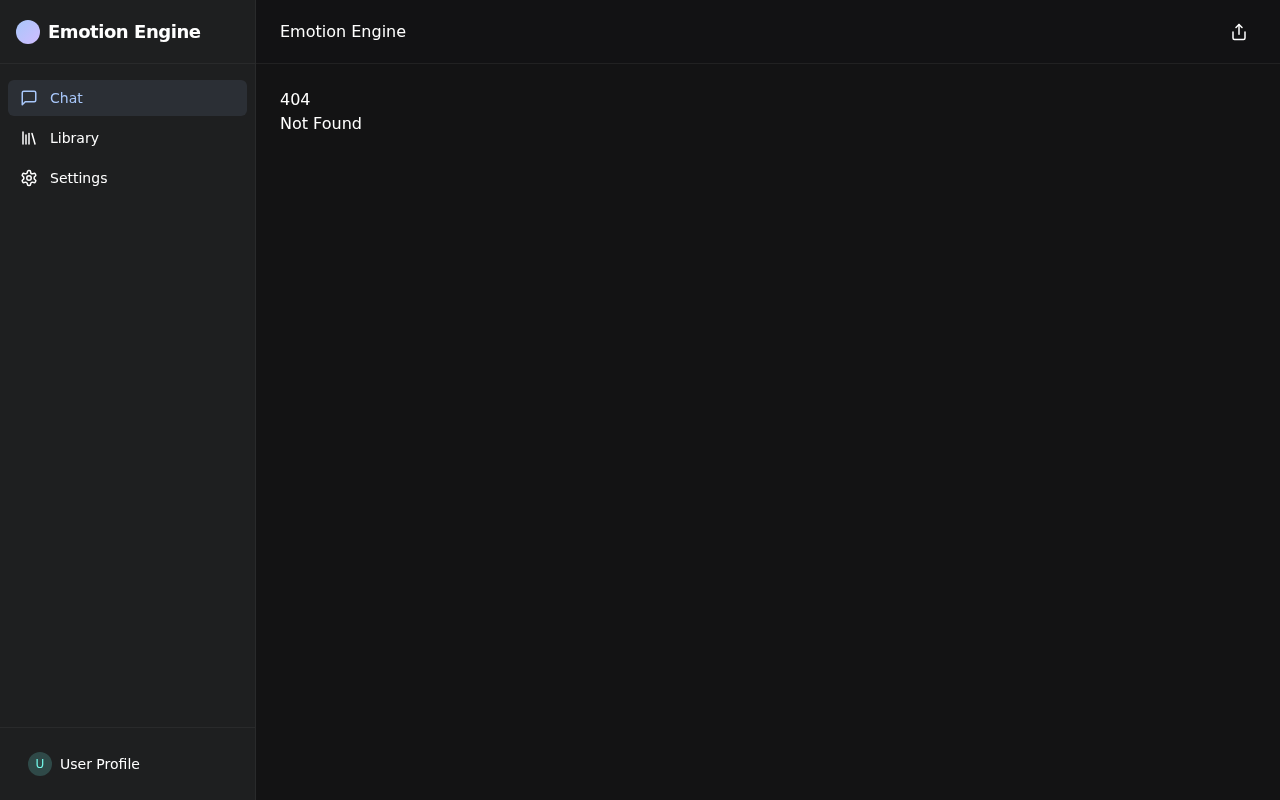
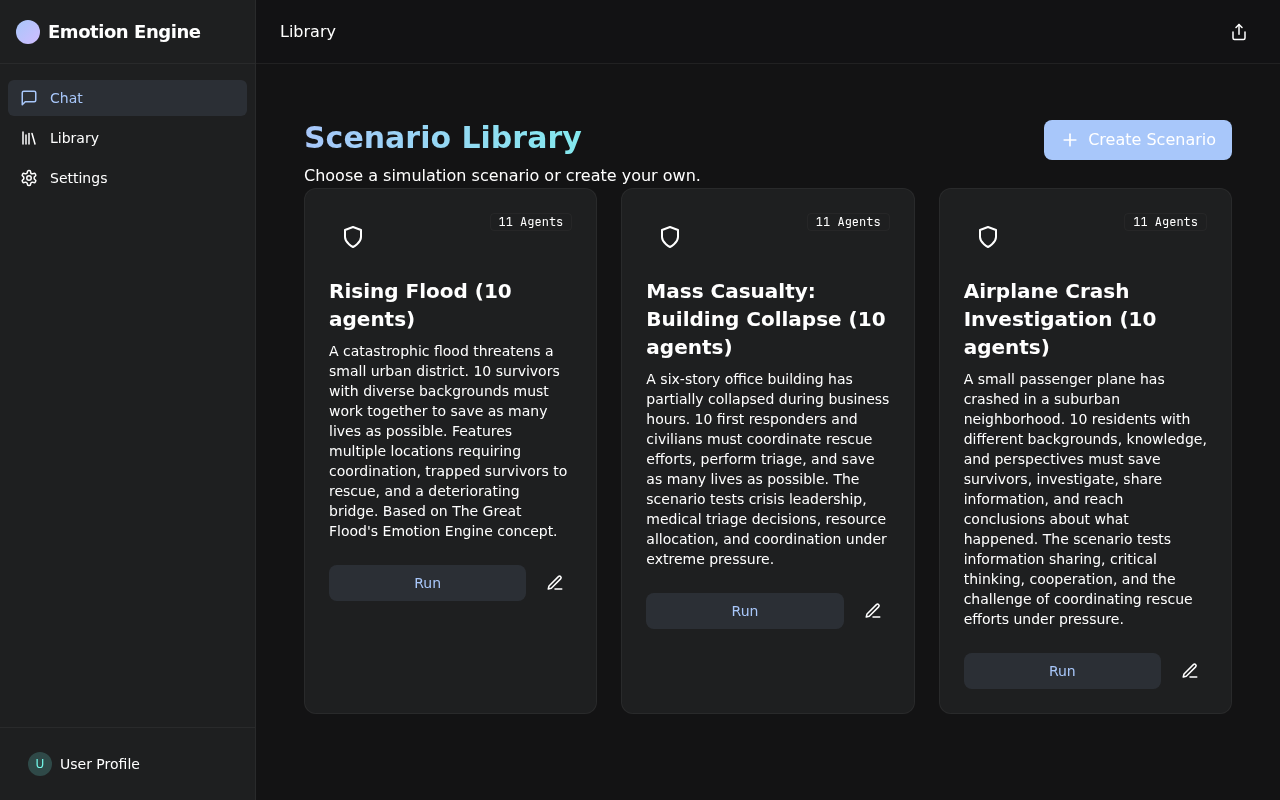
feat: Add SvelteKit page for scenario library and update its corresponding screenshot.

diff --git a/frontend/src/routes/scenarios/+page.svelte b/frontend/src/routes/scenarios/+page.svelte
@@ -1,0 +1,117 @@
+<script lang="ts">
+  import { onMount } from 'svelte';
+  import { scenarios, type Scenario } from '$lib/api';
+  import { setHeader, resetHeader } from '$lib/stores/header';
+  import { goto } from '$app/navigation';
+
+  let scenariosList: Scenario[] = [];
+  let isLoading = true;
+  let error: string | null = null;
+
+  onMount(async () => {
+    setHeader({ title: 'Library' }); // or Scenarios
+    try {
+      scenariosList = await scenarios.list();
+    } catch (e) {
+      error = e instanceof Error ? e.message : 'Failed to load scenarios';
+    } finally {
+      isLoading = false;
+    }
+    return resetHeader;
+  });
+
+  function startRun(scenarioId: string) {
+      // Just navigate to the run creation or direct run page?
+      // Since we don't have a direct "start run" flow fully mapped in my head, I'll assume we can go to details or new run.
+      // Let's go to scenario details usually, but the screenshot shows a list.
+      // For now, let's just create a run and go to it?
+      // Or just a button that does nothing for the visual?
+      // Realistically, it should go to a scenario detail or prep page.
+      goto(`/scenarios/${scenarioId}`);
+  }
+</script>
+
+<div class="max-w-7xl mx-auto px-6 py-8">
+  <div class="flex flex-col md:flex-row justify-between items-start md:items-center mb-8 gap-4">
+    <div>
+      <h1 class="text-3xl font-bold bg-clip-text text-transparent bg-gradient-to-r from-accent-blue to-accent-teal mb-2">
+        Scenario Library
+      </h1>
+      <p class="text-on-surface/70">
+        Choose a simulation scenario or create your own.
+      </p>
+    </div>
+    <a 
+      href="/scenarios/new" 
+      class="flex items-center gap-2 px-4 py-2 bg-primary text-on-primary rounded-lg hover:bg-primary/90 transition-colors shadow-lg shadow-primary/20"
+    >
+      <svg xmlns="http://www.w3.org/2000/svg" width="20" height="20" viewBox="0 0 24 24" fill="none" stroke="currentColor" stroke-width="2" stroke-linecap="round" stroke-linejoin="round"><path d="M5 12h14"/><path d="M12 5v14"/></svg>
+      Create Scenario
+    </a>
+  </div>
+
+  {#if isLoading}
+    <div class="flex justify-center items-center h-64">
+      <div class="w-8 h-8 border-4 border-primary border-t-transparent rounded-full animate-spin"></div>
+    </div>
+  {:else if error}
+    <div class="p-6 bg-red-500/10 border border-red-500/20 text-red-400 rounded-xl text-center">
+      <p>Error: {error}</p>
+      <button class="mt-4 px-4 py-2 bg-surface text-on-surface hover:bg-surface-alt rounded-lg" on:click={() => window.location.reload()}>Retry</button>
+    </div>
+  {:else if scenariosList.length === 0}
+    <div class="text-center py-20 bg-surface/30 rounded-2xl border border-outline/30 border-dashed">
+      <div class="w-16 h-16 bg-surface-alt rounded-full flex items-center justify-center mx-auto mb-4 text-on-surface/50">
+        <svg xmlns="http://www.w3.org/2000/svg" width="32" height="32" viewBox="0 0 24 24" fill="none" stroke="currentColor" stroke-width="2" stroke-linecap="round" stroke-linejoin="round"><path d="M4 19.5v-15A2.5 2.5 0 0 1 6.5 2H20v20H6.5a2.5 2.5 0 0 1 0-5H20"/></svg>
+      </div>
+      <h3 class="text-xl font-medium text-on-surface mb-2">No Scenarios Found</h3>
+      <p class="text-on-surface/60 mb-6 max-w-md mx-auto">Get started by creating your first simulation scenario using our AI generator.</p>
+      <a href="/scenarios/new" class="inline-flex items-center gap-2 text-primary hover:underline">
+        Create New Scenario &rarr;
+      </a>
+    </div>
+  {:else}
+    <div class="grid grid-cols-1 md:grid-cols-2 lg:grid-cols-3 gap-6">
+      {#each scenariosList as scenario}
+        <div class="group relative bg-surface hover:bg-surface-alt/50 border border-outline/30 hover:border-accent-blue/30 rounded-xl p-6 transition-all duration-300 hover:shadow-xl hover:shadow-accent-blue/5">
+          <div class="absolute inset-0 bg-gradient-to-br from-accent-blue/5 to-transparent opacity-0 group-hover:opacity-100 transition-opacity rounded-xl pointer-events-none"></div>
+          
+          <div class="relative z-10">
+            <div class="flex justify-between items-start mb-4">
+              <div class="p-3 bg-surface-alt rounded-lg text-accent-blue">
+                 <!-- Icon based on config or random -->
+                 <svg xmlns="http://www.w3.org/2000/svg" width="24" height="24" viewBox="0 0 24 24" fill="none" stroke="currentColor" stroke-width="2" stroke-linecap="round" stroke-linejoin="round"><path d="M12 22s8-4 8-10V5l-8-3-8 3v7c0 6 8 10 8 10"/></svg>
+              </div>
+              <span class="text-xs font-mono px-2 py-1 rounded bg-surface-alt/80 border border-outline/20 text-on-surface/60">
+                {scenario.agent_templates?.length || 0} Agents
+              </span>
+            </div>
+
+            <h3 class="text-xl font-semibold mb-2 text-on-surface group-hover:text-primary transition-colors">
+              {scenario.name}
+            </h3>
+            <p class="text-on-surface/70 text-sm mb-6 line-clamp-3 min-h-[3rem]">
+              {scenario.description || 'No description provided.'}
+            </p>
+
+            <div class="flex items-center gap-3">
+              <button 
+                on:click={() => startRun(scenario.id)}
+                class="flex-1 px-4 py-2 bg-primary/10 hover:bg-primary text-primary hover:text-on-primary rounded-lg font-medium transition-colors text-sm text-center"
+              >
+                Run
+              </button>
+              <a 
+                href="/scenarios/{scenario.id}/edit"
+                class="p-2 text-on-surface/50 hover:text-on-surface hover:bg-surface-alt rounded-lg transition-colors"
+                title="Edit"
+              >
+                <svg xmlns="http://www.w3.org/2000/svg" width="18" height="18" viewBox="0 0 24 24" fill="none" stroke="currentColor" stroke-width="2" stroke-linecap="round" stroke-linejoin="round"><path d="M12 20h9"/><path d="M16.5 3.5a2.12 2.12 0 0 1 3 3L7 19l-4 1 1-4Z"/></svg>
+              </a>
+            </div>
+          </div>
+        </div>
+      {/each}
+    </div>
+  {/if}
+</div>
